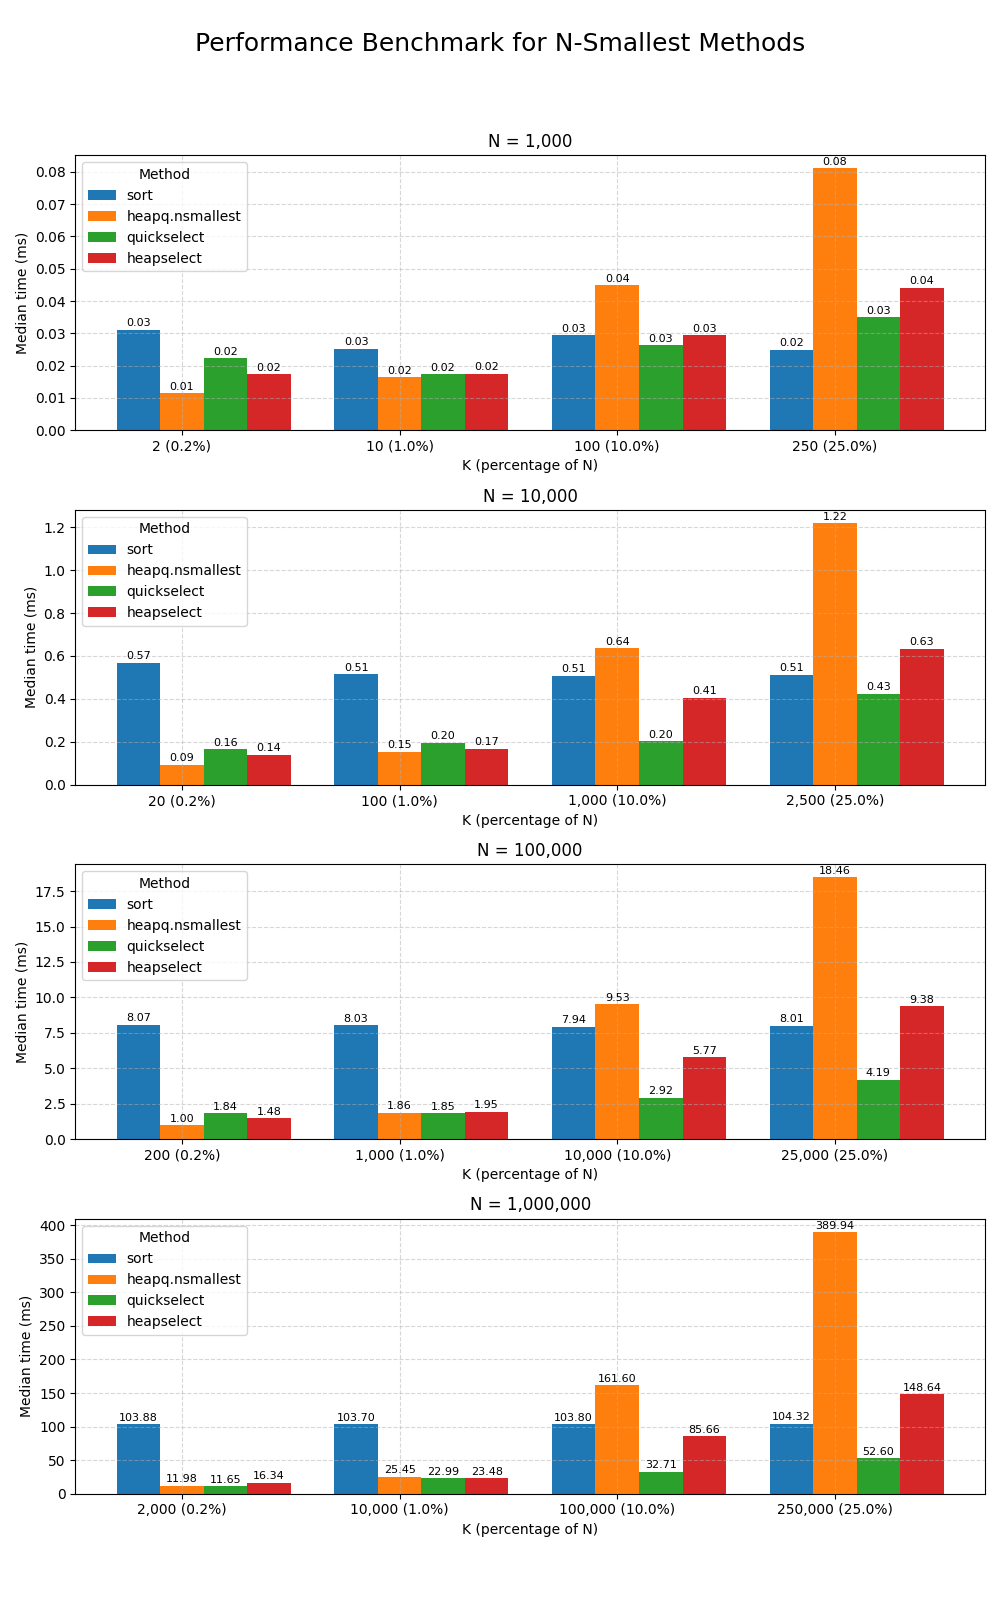
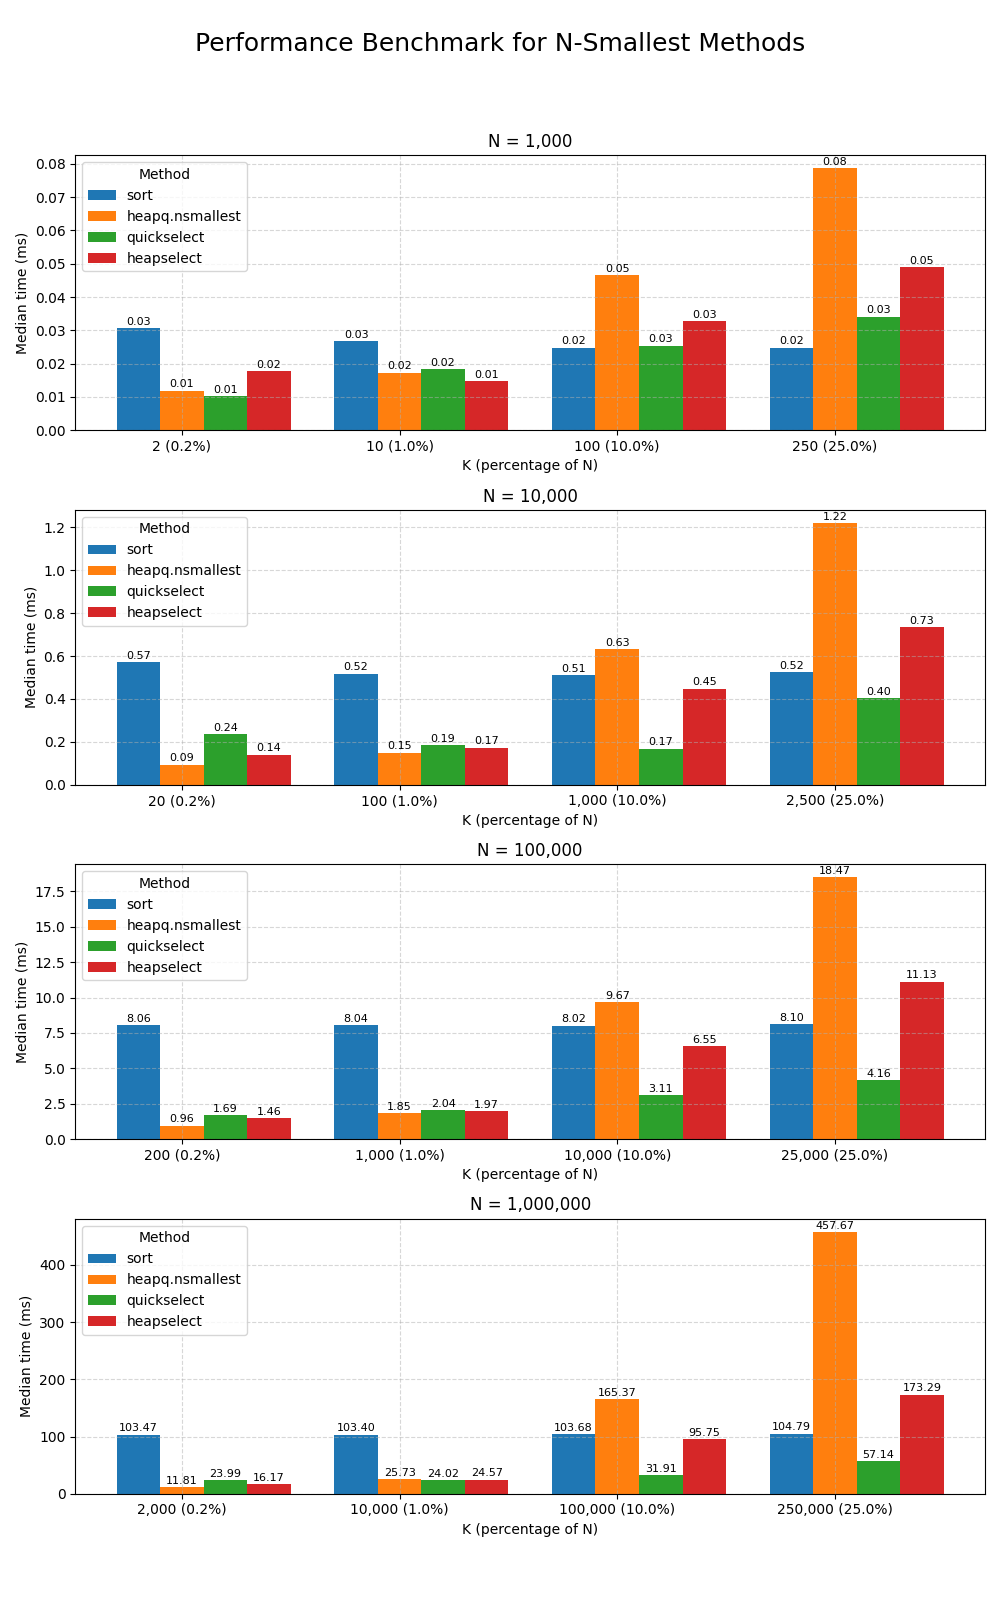
Fix heapselect

diff --git a/benchmark.py b/benchmark.py
@@ -55,7 +55,9 @@ def bench_heapselect(values, K):
     lst = values.copy()
     # Partition in-place so that the element at index (K-1) is in the correct position.
     selectlib.heapselect(lst, K - 1)
-    return lst[:K]
+    result = lst[:K]
+    result.sort()
+    return result
 
 # List of methods to benchmark
 methods = {
